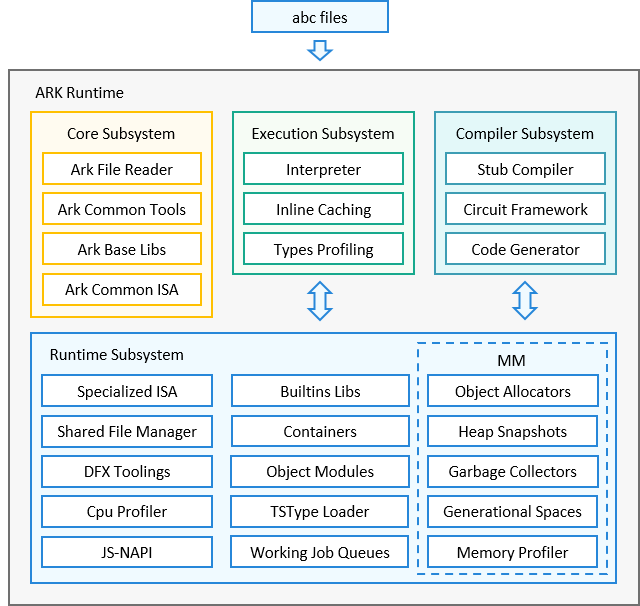
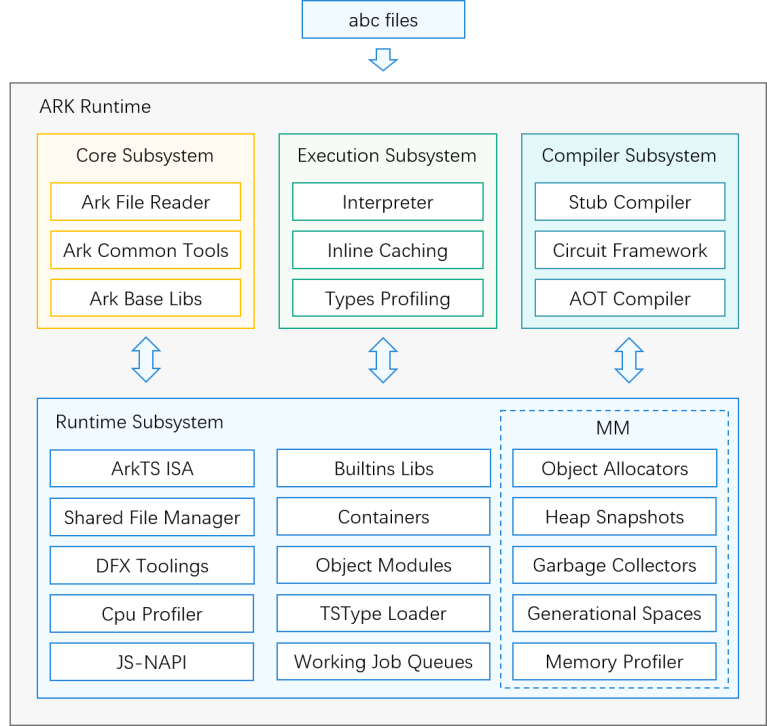
Update ArkCompiler's docs issure
https://gitee.com/openharmony/arkcompiler_ets_runtime/issues/I5YTOB

Changed region(s): [[0.0, 0.0, 1.0, 1.0], [0.9688, 0.9802, 1.0, 1.0]]

diff --git a/docs/overview-zh.md b/docs/overview-zh.md
@@ -1,52 +1,52 @@
 # 概述<a name="ZH-CN_TOPIC_0000001174295771"></a>
 
-方舟编译器\(ArkCompiler\)是OpenHarmony内置的组件化、可配置的多语言编译和运行平台，包含编译器、工具链、运行时等核心部件，支持高级编程语言在多种芯片平台上编译与运行。开源的ArkCompiler eTS Runtime提供的能力是在OpenHarmony操作系统中编译和运行ArkTS语言。
+方舟编译器\(ArkCompiler\)是为支持多种编程语言、多种芯片平台的联合编译、运行而设计的统一编译运行时平台。它支持包括动态类型和静态类型语言在内的多种编程语言，如JS、TS、ArkTS；它是支撑鸿蒙系统成为打通手机、PC、平板、电视、车机和智能穿戴等多种设备的操作系统的编译运行时底座。
 
-ArkCompiler eTS Runtime分成两个部分，分别是方舟eTS编译器与方舟eTS运行时。eTS编译器将ArkTS源码编译成方舟字节码\(ArkCompiler Bytecode\)，eTS运行时负责执行生成的方舟字节码\(后续如无特殊说明，字节码特指方舟字节码\)。
+ArkCompiler主要分成两个部分：编译工具链与运行时。
+编译工具链架构如下：
 
-**图1** 方舟eTS编译器架构
+**图1** 编译工具链架构如下：
 ![](figures/zh-cn_image_0000001197967897.png)
 
-ArkCompiler eTS Runtime的源码编译器接收ArkTS源码的输入，再由ts2abc或es2abc\(将ArkTS文件转换为字节码的工具\)生成abc文件。
+ArkCompiler的编译工具链以ArkTS/TS/JS源码作为输入，将其编译生成为abc(ArkCompiler Bytecode，即方舟字节码)文件。
+运行时架构如下：
 
-**图2** 方舟eTS运行时架构
+**图2** ArkCompiler运行时架构
 
 ![](figures/zh-cn_image_ark-ts-arch.png)
 
-方舟eTS运行时以方舟字节码文件作为输入并直接运行字节码文件，实现对应的语义逻辑。
+ArkCompiler运行时直接运行字节码文件，实现对应语言规范的语义逻辑。
 
 **ArkCompiler eTS Runtime主要由四个子系统组成：**
 
 -   **Core Subsystem**
 
-    Core Subsystem主要由语言无关的基础运行库组成，包括承载字节码的ArkCompiler File组件、支持Debugger的Tooling组件、负责对应系统调用的ArkCompiler Base库组件等。
+    Core Subsystem主要由与语言无关的基础运行库组成，包括承载字节码的File组件、支持Debugger的Tooling组件、负责适配系统调用的Base库组件等。
 
 -   **Execution Subsystem**
 
-    执行引擎包含执行字节码的解释器、缓存隐藏类和内联缓存、以及剖析记录运行时类型的Profiler。
+    Execution Subsystem包含执行字节码的解释器、快速路径内联缓存、以及抓取运行时信息的Profiler。
 
 -   **Compiler Subsystem**
 
-    编译子系统包含Stub编译器、基于Circuit IR的优化编译框架和代码生成器。
+   Compiler Subsystem包含Stub编译器、基于IR的编译优化框架和代码生成器。
 
 -   **Runtime subsystem**
 
-    运行时子系统包含了各种ArkTS运行相关的模块：
+    Runtime Subsystem包含了ArkTS/TS/JS运行相关的模块：
     - 内存管理：对象分配器与垃圾回收器\(并发标记和部分内存压缩的CMS-GC和Partial-Compressing-GC\)
     - 分析工具：DFX工具、cpu和heap的profiling工具
     - 并发管理：actor并发模型中的abc文件管理器
     - 标准库：Ecmascript规范定义的标准库、高效的container容器库与对象模型
     - 其他：异步工作队列、TypeScript类型加载、跟C++交互的ArkTS NAPI接口等
 
-**ArkCompiler eTS Runtime的设计特点：**
+**ArkCompiler 的设计特点：**
 
-- **ArkCompiler eTS Runtime的主要设计目标:** 是为OpenHarmony操作系统提供ArkTS应用程序执行引擎，而不是作为浏览器中的JavaScript执行引擎。
+- **原生支持类型** 目前业界引擎执行TS的方式是先把TS转化为JS，再运行JS源码来完成对应的语义逻辑。ArkCompiler的编译工具链编译TS源码时，会分析推导TS的类型信息并将其传递给运行时。运行时直接使用类型信息在运行前预生成内联缓存（Inline Cache）以加速字节码执行。另外，TSAOT (Ahead-of-Time) Compiler，可以利用字节码文件中的类型信息，直接编译生成优化机器码，使得应用可以直接运行优化机器码，获得高性能运行体验。
 
--  **为了提升应用的执行性能和安全性:** ArkCompiler eTS Runtime选择将ArkTS程序预先静态编译为方舟字节码\(带上静态类型信息\) ，从而减少运行时的编译和类型信息收集开销。另外出于安全性和性能的考虑，eTS Runtime选择不支持eval和只支持strict模式的代码。
+-  **并发：并发模型优化与并发API** 
+ECMAScript规范没有提供并发语义表述；业界引擎，如浏览器或者Node.js，通常会提供基于Actor并发模型的Worker API来支持多线程开发。Actor模型下执行体之间不共享任何数据对象，通过消息机制进行通信。因此Web引擎或者Node.js引擎的Worker都有启动速度慢、内存占用高这些缺陷。
+针对这些缺陷，ArkCompiler的运行时已经实现了Actor实例中的不可变或者不易变的对象（方法和字节码）的共享，较大程度地优化了Actor的启动性能和启动内存。
+方舟编译运行时不只提供了业界通用的Worker API，还提供了TaskPool作为并发API的增强。TaskPool是一个支持优先级调度、工作线程自动扩缩容的任务池功能库。开发者无需关心并发实例的生命周期，也无需关心任务负载变化时需要创建或者销毁并发实例，极大地简化了高性能多线程鸿蒙应用的开发。
 
--  **原生支持TypeScript：** 目前业界通用的执行方式是把TS转化为JS，再通过JS运行时来执行。ArkCompiler eTS Runtime规划在ts2abc编译ArkTS源码时，会推导分析ArkTS的类型信息并传递给ArkCompiler eTS运行时。运行时直接利用类型信息，静态生成内联缓存\(inline caching\) 从而加速字节码执行。另外，ArkCompiler eTS Runtime规划中的TSAOT \(Ahead-of-Time\) Compiler，可以利用ts2abc传递的类型信息，直接编译生成高质量的机器码，使得应用可以直接以机器码形式运行，提升运行性能。
-
--  **轻量级Actor并发模型：** ECMAScript没有提供并发规范，业界JS引擎的实现中常用Actor并发模型。此模型下执行体之间不共享任何数据，通过消息机制进行通信。业界当前实现的JS Actor模型\(web-worker\) 有启动速度慢、内存占用高这些缺陷。为了利用设备的多核能力获得更好的性能提升，运行时需要提供启动快、内存占用少的Actor实现。目前ArkCompiler eTS Runtime已经实现在Actor内存隔离模型的基础上，共享actor实例中的不可变或者不易变的对象\(方法和字节码\) ，后续继续共享内建代码块、常量字符串等等，来提升Actor的启动性能和节省内存开销，达到实现轻量级Actor并发模型的目标。
-
--  **ArkTS/C++的跨语言交互：** 在OpenHarmony操作系统平台API实现中，通常需要面临C/C++代码访问和操作ArkTS对象的场景。对这个业务场景，ArkCompiler eTS Runtime规划可以根据ArkTS程序中的class声明和运行时约定，静态生成包含ArkTS对象布局描述的C/C++头文件，以及操作这些对象的C/C++实现库。在C/C++代码中，通过包含对象描述头文件以及链接对应实现库，实现直接操作ArkTS对象的效果。由于ArkTS类型或其内在布局并非总是固定不变的，因此在对象操作的代码实现中，会插入类型检查，如果对象类型或布局在运行时发生变化，则回退执行通用的慢速路径。
-
+-  **安全** ArkCompiler前端编译工具链将ArkTS/TS/JS程序预先静态编译为方舟字节码，并且还提供了多重混淆能力的增强，有效地提升了开发者代码资产的安全强度。另外出于安全的考虑，ArkCompiler不支持sloppy模式的JS代码，也不支持eval等运行动态字符串的功能。

diff --git a/README.md b/README.md
@@ -42,7 +42,7 @@ For more information, see [ArkCompiler JS Runtime](https://gitee.com/openharmony
 ## Constraints
 
 * Only the ArkCompiler bytecode files generated by ts2abc, which is the ArkCompiler JS frontend toolchain, can be run.
-* Only the ES2015 standard and strict modes are supported.
+* Only the ES2021 standard and strict modes are supported.
 * Functions cannot be dynamically created using strings, such as new Function("console.log(1);")).
 
 ## Building

diff --git a/README_zh.md b/README_zh.md
@@ -54,7 +54,7 @@
 ## 约束<a name="section119744591305"></a>
 
 * 仅支持运行方舟eTS编译器\(ts2abc或es2abc\)生成的方舟字节码文件
-* 只支持ES2015标准和严格模式（use strict)
+* 只支持ES2021标准和严格模式（use strict)
 * 不支持通过字符串动态创建函数(比如new Function("console.log(1);"))
 
 ## 编译构建<a name="section137768191623"></a>
